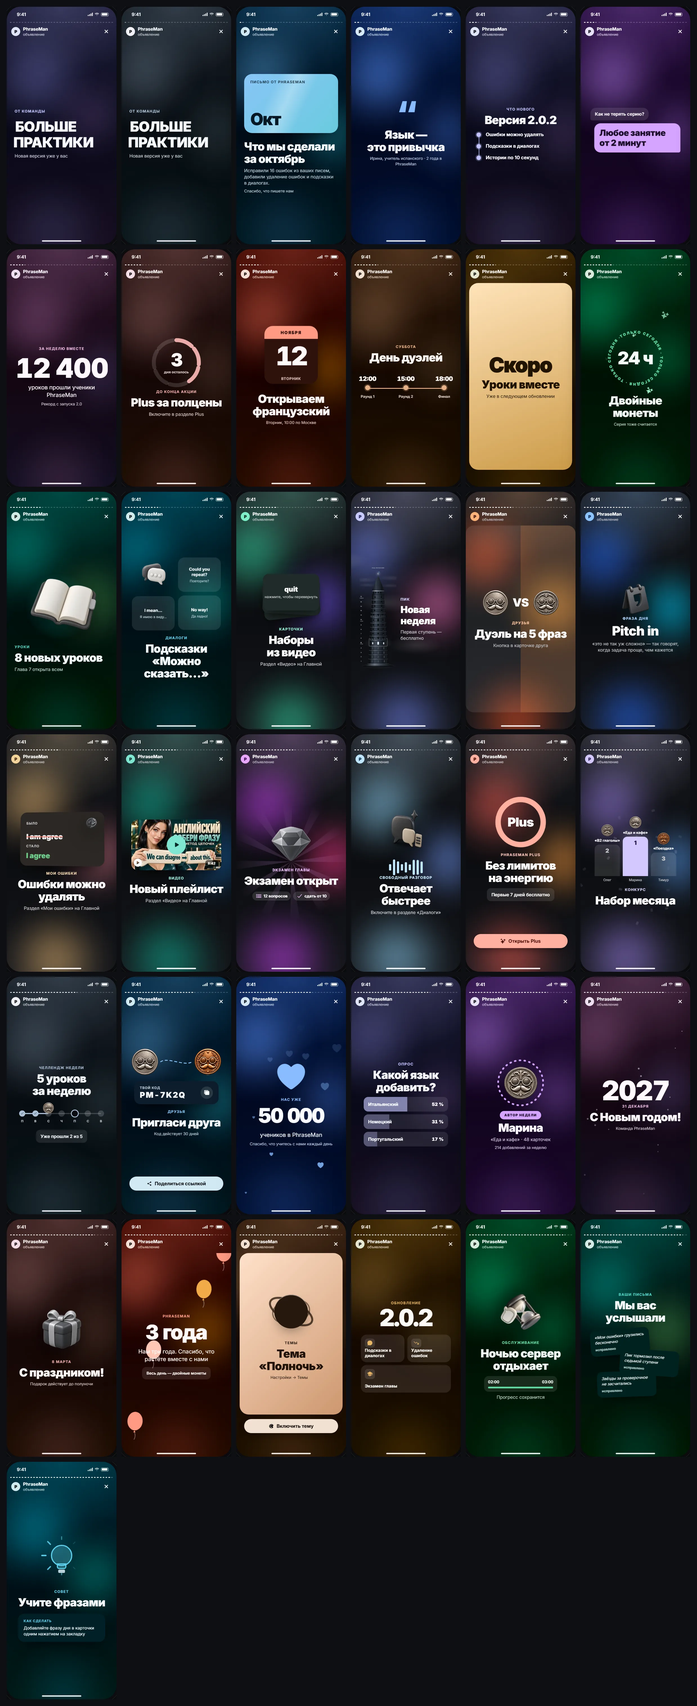
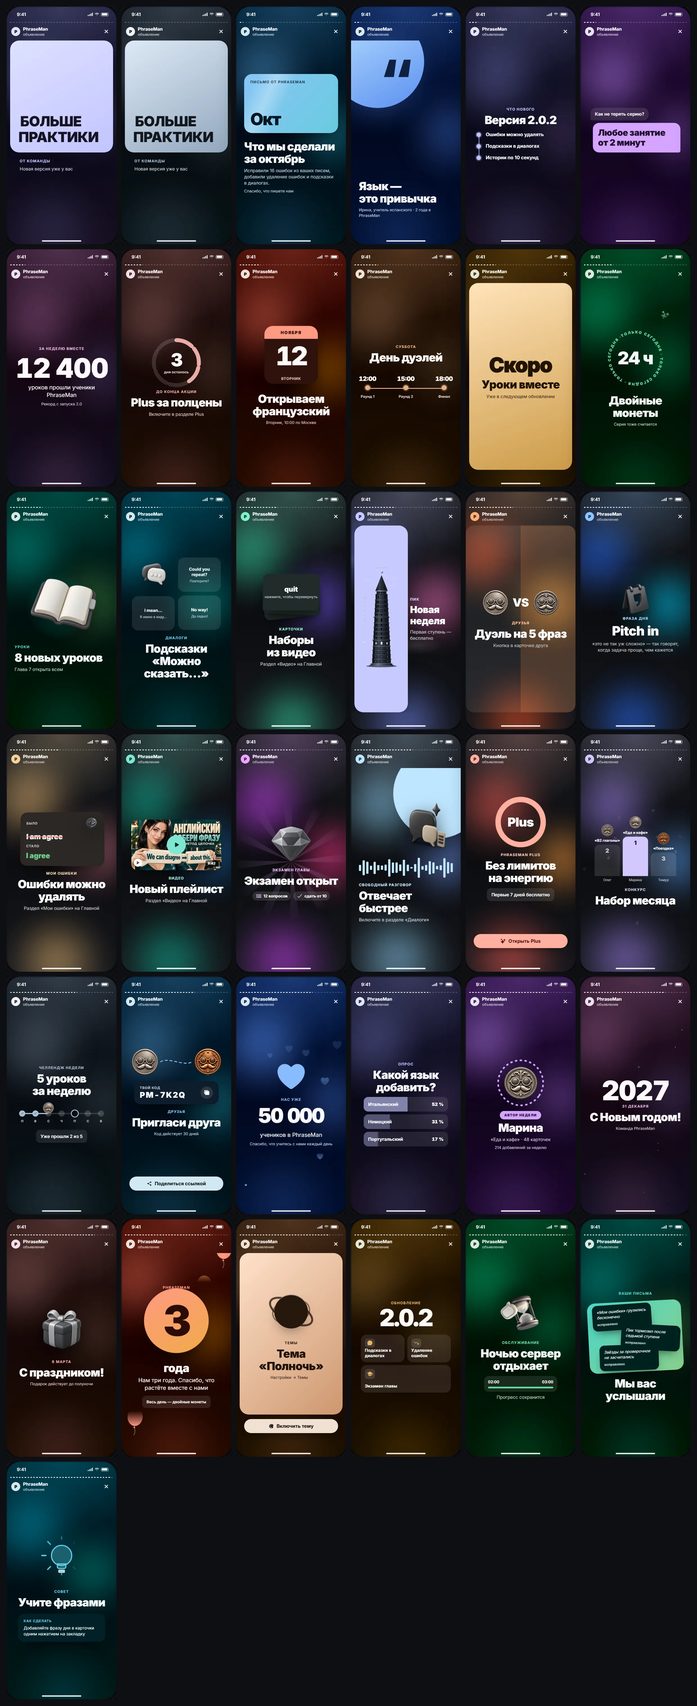
docs(design): story announcements v2.1 — particles keep off the text band, colour planes for the flat frames
Coordinator review of v2 on the sheet: a balloon crossed the paragraph on «3 года», and several frames still
read as "centred title on a blurred background" at rest (Манифест, Цитата, Пик, ИИ, Мы вас услышали).

- Particle layers (.fx.tz: balloons, hearts, snow, sparks, confetti) are masked out of the text band; the player
  measures the band after render (all slide children except particles, backgrounds and art) and feeds it to the
  mask via --tz-top/--tz-bottom, so particles fade 64px before text and never sit on it.
- Манифест: poster — theme-gradient plane on 60 % of the frame wiped in from the left, caps lines inside it,
  badge and paragraph below.
- Цитата: theme disc with a giant quote mark enters from the top-left corner and floats; quote anchored
  bottom-left.
- Пик: theme plane on the left with the tower rising on it, text column on the right.
- ИИ: theme disc in the top-right corner with the mic art on it, 26-bar wave across the frame, text left.
- Мы вас услышали: tilted theme board with the three notes on it as the hero, title below.
- День рождения: the number from the title sits on a theme disc (150px), the rest of the title below;
  balloons in the side lanes.

Headless: 36 × 2 titles × 23 themes × dark/light = 3312 frames, 0 geometry violations, 0 JS errors, 0 404;
sheets regenerated.

diff --git a/docs/design/v2-app/stories-announcements-v1.html b/docs/design/v2-app/stories-announcements-v1.html
@@ -13,6 +13,8 @@
    конфетти и частицы, 3D-наклон, параллакс, маски и раскрытие текста, кинетические буквы, круговая надпись, занавес, кольца) и своё
    движение входа и «жизни»; анимируются только transform/opacity (маски — clip-path), «Уменьшить движение» — всё стоит в конечном состоянии.
    Безопасные зоны: кадр живёт между шапкой (120) и низом (60; с кнопкой — 150) и обрезает всё, что вылетает за его край; частицы заперты внутри.
+   v2.1 (координатор после показа листа): частицы не заходят на полосу текста (.fx.tz + маска, полосу ставит плеер), у Манифеста, Цитаты, Пика,
+   ИИ, «Мы вас услышали» и Дня рождения — цветные плоскости темы и другой ритм вместо «текста по центру на размытом фоне».
    Проверка: window.ST.settle(true) ставит все анимации в конечное состояние, window.ST.geo(k) ищет пересечения, выход за кадр и обрезанный
    текст — прогон 36 × 2 заголовка × 23 темы в headless, итог должен быть 0 (scratchpad/ann_check.cjs).
    Контракт сейчас (modules/story_events/story_announcements_contract.ts): метка ≤ 35, заголовок ≤ 110, до 4 блоков ≤ 260 (14/16/20,
@@ -431,6 +433,38 @@ html.settle .st-page .ph .story *, html.settle .st-page .ph .story *::before, ht
 .ph.lt .sparks .io { color: var(--acc-g); }
 @keyframes stSpark { 0%, 100% { opacity: 0; transform: scale(.4) rotate(0); } 50% { opacity: 1; transform: scale(1) rotate(20deg); } }
 
+/* ── v2.1: частицы вне полосы текста (--tz-top/--tz-bottom ставит плеер) ── */
+.story .sl > .fx.tz { -webkit-mask-image: linear-gradient(to bottom, #000 0, #000 calc(var(--tz-top, 50%) - 64px), transparent calc(var(--tz-top, 50%) - 10px), transparent calc(var(--tz-bottom, 50%) + 10px), #000 calc(var(--tz-bottom, 50%) + 64px), #000 100%); mask-image: linear-gradient(to bottom, #000 0, #000 calc(var(--tz-top, 50%) - 64px), transparent calc(var(--tz-top, 50%) - 10px), transparent calc(var(--tz-bottom, 50%) + 10px), #000 calc(var(--tz-bottom, 50%) + 64px), #000 100%); }
+/* ── v2.1: Манифест — постер: плоскость темы на 60 % кадра, капс внутри, блик ── */
+.poster { width: 100%; height: 100%; display: flex; flex-direction: column; }
+.poster .plane { position: absolute; left: -16px; right: -16px; top: 0; height: 60%; border-radius: 32px; overflow: hidden; background: linear-gradient(150deg, var(--grad-a), var(--grad-b)); clip-path: inset(0 100% 0 0 round 32px); animation: stPlaneIn 900ms cubic-bezier(.23, 1, .32, 1) forwards 100ms; box-shadow: 0 24px 50px -24px color-mix(in srgb, var(--sh-tint) 70%, transparent); }
+@keyframes stPlaneIn { to { clip-path: inset(0 0 0 0 round 32px); } }
+.poster .plane .sheen { position: absolute; inset: -40% -60%; background: linear-gradient(115deg, transparent 42%, rgba(255, 255, 255, .28) 50%, transparent 58%); animation: stSheenLoop 6s ease-in-out infinite 1.6s; }
+.poster .pbody { position: relative; height: 60%; display: flex; align-items: flex-end; padding: 0 10px 26px 18px; }
+.poster .pfoot { padding: 22px 6px 0 18px; display: flex; flex-direction: column; align-items: flex-start; }
+.sl .onink .mani .ln span { color: var(--acc-ink); }
+/* ── v2.1: Цитата — диск темы входит из угла, цитата внизу слева ── */
+.story .sl > .bg.qdisc { inset: -90px auto auto -70px; width: 330px; height: 330px; border-radius: 50%; background: linear-gradient(150deg, var(--grad-a), var(--grad-b)); transform-origin: 30% 30%; opacity: 0; animation: stDiscIn 900ms cubic-bezier(.34, 1.56, .64, 1) both 100ms; display: flex; align-items: flex-end; justify-content: flex-end; padding: 0 48px 22px 0; }
+@keyframes stDiscIn { from { opacity: 0; transform: scale(.4); } to { opacity: 1; transform: none; } }
+.qdisc .qm { display: block; font-size: 190px; line-height: 150px; font-weight: 800; color: var(--acc-ink); letter-spacing: -8px; opacity: .92; }
+.qwrap { width: 100%; height: 100%; display: flex; flex-direction: column; justify-content: flex-end; align-items: flex-start; padding-bottom: 32px; }
+/* ── v2.1: Пик — плоскость темы слева под башней ── */
+.story .sl > .bg.hplane { inset: 0 auto 0 12px; width: 190px; border-radius: 32px; background: linear-gradient(180deg, var(--grad-a), var(--grad-b)); transform: translateX(-115%); animation: stSlideIn 800ms cubic-bezier(.23, 1, .32, 1) forwards 100ms; box-shadow: 0 24px 50px -24px color-mix(in srgb, var(--sh-tint) 70%, transparent); }
+.split .colL { width: 160px; }
+.split .colR { padding-left: 10px; }
+/* ── v2.1: ИИ — диск темы в углу, волна на всю ширину ── */
+.bg .disc2 { position: absolute; right: -80px; top: -70px; width: 320px; height: 320px; border-radius: 50%; background: linear-gradient(140deg, var(--grad-a), var(--grad-b)); transform-origin: 70% 30%; opacity: 0; animation: stDiscIn 900ms cubic-bezier(.34, 1.56, .64, 1) both 100ms; }
+.aiart { align-self: flex-end; margin: 0 -6px 4px 0; }
+.wave { display: flex; align-items: center; gap: 5px; width: 100%; height: 72px; margin: 0 0 16px; }
+.wave i { flex: 1; height: calc(100% * var(--h, .6)); border-radius: 3px; background: var(--acc-g); transform-origin: center; animation: stEq var(--t) ease-in-out infinite alternate; animation-delay: var(--d); }
+/* ── v2.1: Мы вас услышали — цветная доска с записками ── */
+.notes.board { width: 334px; height: 262px; margin: 14px 0 6px; }
+.notes .bplane { position: absolute; inset: 6px 0; border-radius: 28px; background: linear-gradient(135deg, var(--grad-a), var(--grad-b)); transform: rotate(-3deg) scale(.7); opacity: 0; animation: stBoardIn 800ms cubic-bezier(.34, 1.56, .64, 1) forwards 200ms; box-shadow: 0 24px 50px -24px color-mix(in srgb, var(--sh-tint) 70%, transparent); }
+@keyframes stBoardIn { to { transform: rotate(-3deg); opacity: 1; } }
+/* ── v2.1: День рождения — цифра на диске темы ── */
+.bdisc { width: 230px; height: 230px; border-radius: 50%; background: linear-gradient(150deg, var(--grad-a), var(--grad-b)); display: flex; align-items: center; justify-content: center; box-shadow: 0 30px 60px -24px color-mix(in srgb, var(--sh-tint) 70%, transparent); }
+.bdisc .bnum { display: block; font-size: 150px; line-height: 150px; font-weight: 800; letter-spacing: -6px; color: var(--acc-ink); font-variant-numeric: tabular-nums; opacity: 0; animation: stBounceIn 800ms cubic-bezier(.34, 1.56, .64, 1) both 500ms; }
+
 /* ── опись ── */
 .st-map-wrap { overflow-x: auto; margin-top: 12px; border-radius: 16px; background: #17181B; }
 .st-map { width: 100%; min-width: 1100px; border-collapse: collapse; font-size: 13px; line-height: 18px; }
@@ -446,6 +480,7 @@ html.settle .st-page .ph .story *, html.settle .st-page .ph .story *::before, ht
   .wipe, .twr, .story .sl > .bg.wipebg { clip-path: none !important; }
   .tl .line, .tl .line i, .hl .ln, .hl .ln i, .path .ln i, .pb2 .op i, .win .tr i, .tilt .wrong i { transform: none !important; }
   .ring7 .seg.on { stroke-dasharray: 60 443 !important; } .lnk svg path { stroke-dashoffset: 0 !important; }
+  .poster .plane { clip-path: inset(0 0 0 0 round 32px) !important; } .story .sl > .bg.qdisc, .bg .disc2, .story .sl > .bg.hplane, .bdisc .bnum { opacity: 1 !important; transform: none !important; } .notes .bplane { opacity: 1 !important; transform: rotate(-3deg) !important; }
   .chat .dots, .bigring, .snow, .conf, .sparks, .hp, .bl { display: none !important; }
   .odo .dg .strip { transform: translateY(var(--dy)) !important; } .soonw b:not(.fill) { opacity: 0 !important; } .fly .flipw { transform: rotateY(180deg) !important; } .bulb .ray { opacity: 1 !important; transform: none !important; }
   .notes .nt { transform: rotate(var(--r)) !important; } .fly .fc { transform: translate(0, var(--ty)) rotateZ(var(--rz)) !important; } .path .run { transform: translateX(var(--dx)) !important; }
@@ -515,9 +550,9 @@ const block = (b, d) => b.style === 'accent' ? `<div class="blk acc b${b.size} a
 const blocks = (list, d0 = 700, step = 160) => (list || []).map((b, i) => block(b, d0 + i * step)).join('');
 const artSrc = (ph, name) => `assets/v2art/${ph.classList.contains('lt') ? 'light' : 'dark'}/${name}.webp`;
 const art = (ph, name, size = 150, d = 100, life = 'float') => `<div class="pop" style="--d:${d}ms"><img class="v2art ${life}" src="${artSrc(ph, name)}" width="${size}" height="${size}" style="width:${size}px;height:${size}px" alt=""></div>`;
-const confetti = (n = 18, d0 = 700) => `<div class="fx conf" data-fx>${Array.from({ length: n }, (_, i) => { const a = (Math.PI * 2 / n) * i + (i % 3) * .3; const r = 120 + (i % 5) * 28; const c = ['var(--acc-b)', 'var(--acc-g)', 'var(--tx)', 'var(--sec)'][i % 4]; return `<i style="--cc:${c};--dx:${Math.round(Math.cos(a) * r)}px;--dy:${Math.round(Math.sin(a) * r + 90)}px;--r:${(i * 97) % 360}deg;--d:${d0 + (i % 6) * 60}ms"></i>`; }).join('')}</div>`;
-const sparks = (n = 7) => `<div class="fx sparks" data-fx>${Array.from({ length: n }, (_, i) => `<span class="io" style="--x:${8 + (i * 13) % 84}%;--y:${10 + (i * 29) % 70}%;--s:${14 + (i % 3) * 8}px;--d:${i * 330}ms">${I.sparkles}</span>`).join('')}</div>`;
-const tower = (ph, tier, myFloor, width) => { if (!T) return ''; const lite = ph.classList.contains('lt'); const w = Math.min(width || 200, Math.floor(380 * T.TW / T.GEOM.height)); const h = Math.round(T.GEOM.height * w / T.TW); return `<div class="twr" style="width:${w}px;height:${h}px">${T.svg({ tier, myFloor, selected: myFloor, width: w, theme: lite ? 'light' : 'dark', variant: 'tower' })}</div>`; };
+const confetti = (n = 18, d0 = 700) => `<div class="fx conf tz" data-fx>${Array.from({ length: n }, (_, i) => { const a = (Math.PI * 2 / n) * i + (i % 3) * .3; const r = 120 + (i % 5) * 28; const c = ['var(--acc-b)', 'var(--acc-g)', 'var(--tx)', 'var(--sec)'][i % 4]; return `<i style="--cc:${c};--dx:${Math.round(Math.cos(a) * r)}px;--dy:${Math.round(Math.sin(a) * r + 90)}px;--r:${(i * 97) % 360}deg;--d:${d0 + (i % 6) * 60}ms"></i>`; }).join('')}</div>`;
+const sparks = (n = 7) => `<div class="fx sparks tz" data-fx>${Array.from({ length: n }, (_, i) => `<span class="io" style="--x:${8 + (i * 13) % 84}%;--y:${10 + (i * 29) % 70}%;--s:${14 + (i % 3) * 8}px;--d:${i * 330}ms">${I.sparkles}</span>`).join('')}</div>`;
+const tower = (ph, tier, myFloor, width, forceTheme) => { if (!T) return ''; const lite = ph.classList.contains('lt'); const w = Math.min(width || 200, Math.floor(380 * T.TW / T.GEOM.height)); const h = Math.round(T.GEOM.height * w / T.TW); return `<div class="twr" style="width:${w}px;height:${h}px">${T.svg({ tier, myFloor, selected: myFloor, width: w, theme: forceTheme || (lite ? 'light' : 'dark'), variant: 'tower' })}</div>`; };
 // зачем: строки манифеста собираются по ширине (оценка 0,72 em на букву капсом, 0,3 em на пробел; лимит 316 px, чтобы дрейф ±8 px не упирался в маску), чтобы ни одна строка не вылезла за кадр при любом заголовке
 const kinLines = (text, maxW = 316) => { const sizes = [56, 50, 44, 40, 36, 32, 28, 24]; const ws = text.split(' '); const wl = (s, fs) => fs * (s.replace(/ /g, '').length * .72 + (s.split(' ').length - 1) * .3); for (const fs of sizes) { const lines = []; let cur = ''; let ok = true; for (const w of ws) { if (wl(w, fs) > maxW) { ok = false; break; } const t = cur ? cur + ' ' + w : w; if (wl(t, fs) <= maxW) cur = t; else { lines.push(cur); cur = w; } } if (!ok) continue; if (cur) lines.push(cur); if (lines.length <= 8) return { fs, lines }; } return { fs: 24, lines: ws }; };
 const odometer = (n, d0 = 200) => { const s = fmt(n); const m = s.replace(/ /g, '').length > 5; return `<div class="odo ${m ? 'm' : ''}">${[...s].map((ch, i) => ch === ' ' ? '<i class="sp"></i>' : `<div class="dg"><div class="strip" style="--dy:${-(+ch) * (m ? 72 : 96)}px;--d:${d0 + i * 120}ms">${Array.from({ length: 10 }, (_, k) => `<b>${k}</b>`).join('')}</div></div>`).join('')}</div>`; };
@@ -535,15 +570,15 @@ const applyTheme = (ph, id, ap) => { ph.setAttribute('style', tokCss(id, ap)); p
 /* ── шаблоны v2 ── s = пример текста владельца (badge, short, long, blocks); render(ph, s, c) → кадр; c.title — заголовок по переключателю */
 const B = (text, size = 16, style = 'normal') => ({ text, size, style });
 const TPL = [
-  { id: 'manifest', name: 'Манифест', group: 'Текст', comp: 'крупная типографика на весь кадр', fields: 'метка · заголовок · 1 блок', ext: '', motion: 'строки капсом выезжают из-под маски по одной, потом дрейфуют в разные стороны',
+  { id: 'manifest', name: 'Манифест', group: 'Текст', comp: 'постер: цветная плоскость темы на 60 % кадра, капс внутри неё', fields: 'метка · заголовок · 1 блок', ext: '', motion: 'плоскость раскрывается слева, строки капсом выезжают из-под масок и дрейфуют, по плоскости ходит блик',
     s: { badge: 'От команды', short: 'Больше практики', long: 'Больше живой практики и меньше барьеров: говорите с первого дня, ошибки не страшны', blocks: [B('Новая версия уже у вас', 16)] }, left: true,
-    render: (ph, s, c) => { const { fs, lines } = kinLines(c.title, 316); return `${badge(s.badge, 100)}<div class="mani" style="margin-top:14px">${lines.map((l, i) => `<div class="ln" style="font-size:${fs}px"><i style="--dd:${-i * 1300}ms"><span style="--d:${260 + i * 120}ms">${esc(l)}</span></i></div>`).join('')}</div>${blocks(s.blocks, 300 + lines.length * 120 + 500)}`; } },
+    render: (ph, s, c) => { const { fs, lines } = kinLines(c.title, 300); return `<div class="poster"><div class="plane" data-bg><i class="sheen" data-fx></i></div><div class="pbody onink"><div class="mani">${lines.map((l, i) => `<div class="ln" style="font-size:${fs}px"><i style="--dd:${-i * 1300}ms"><span style="--d:${500 + i * 120}ms">${esc(l)}</span></i></div>`).join('')}</div></div><div class="pfoot">${badge(s.badge, 900 + lines.length * 120)}${blocks(s.blocks, 1000 + lines.length * 120)}</div></div>`; } },
   { id: 'editorial', name: 'Редакция', group: 'Текст', comp: 'сплит: цветная панель сверху, текст слева', fields: 'метка · заголовок · до 2 блоков', ext: '', motion: 'панель опускается занавесом, по ней ходит блик; текст по лесенке',
     s: { badge: 'Письмо от PhraseMan', short: 'Что мы сделали за октябрь', long: 'Что мы сделали за октябрь и почему уроки теперь открываются быстрее даже без сети', blocks: [B('Исправили 16 ошибок из ваших писем, добавили удаление ошибок и подсказки в диалогах.', 16), B('Спасибо, что пишете нам', 14)] }, left: true,
     render: (ph, s, c) => `<div class="edit"><div class="epanel"><div class="sheen" data-fx></div><div class="ov">${esc(s.badge)}</div><div class="mark">Окт</div></div><div style="height:18px"></div>${title(c.title, 800)}${blocks(s.blocks, 1200)}</div>` },
-  { id: 'quote', name: 'Цитата', group: 'Текст', comp: 'типографика: кавычка и маска', fields: 'заголовок = цитата · 1 блок = автор', ext: '', motion: 'кавычка всплывает пружиной, цитата открывается слева направо, автор проявляется',
-    s: { badge: '', short: 'Язык — это привычка', long: 'Язык учится не за один вечер, а по десять минут каждый день: именно так появляются ваши 30 дней подряд', blocks: [B('Ирина, учитель испанского · 2 года в PhraseMan', 14)] },
-    render: (ph, s, c) => `<div class="qmark pop" style="--d:80ms">“</div><div class="wipe" style="--d:600ms"><div class="h1 ${hcls(c.title)}">${esc(c.title)}</div></div>${blocks(s.blocks, 1500)}` },
+  { id: 'quote', name: 'Цитата', group: 'Текст', comp: 'постер: цветной диск с кавычкой входит из угла, цитата внизу слева', fields: 'заголовок = цитата · 1 блок = автор', ext: '', motion: 'диск вылетает из угла пружиной и парит, цитата открывается маской слева направо, автор проявляется',
+    s: { badge: '', short: 'Язык — это привычка', long: 'Язык учится не за один вечер, а по десять минут каждый день: именно так появляются ваши 30 дней подряд', blocks: [B('Ирина, учитель испанского · 2 года в PhraseMan', 14)] }, left: true,
+    render: (ph, s, c) => `<div class="bg qdisc" data-bg><span class="float"><span class="qm">“</span></span></div><div class="qwrap"><div class="wipe" style="--d:700ms"><div class="h1 ${hcls(c.title)}">${esc(c.title)}</div></div>${blocks(s.blocks, 1600)}</div>` },
   { id: 'list3', name: 'Три пункта', group: 'Текст', comp: 'вертикальный таймлайн', fields: 'метка · заголовок · до 3 блоков = пункты', ext: '', motion: 'линия растёт сверху вниз, пункты въезжают справа с точками',
     s: { badge: 'Что нового', short: 'Версия 2.0.2', long: 'Версия 2.0.2 уже в App Store и Google Play: вот три вещи, которые вы заметите сразу', blocks: [B('Ошибки можно удалять', 16), B('Подсказки в диалогах', 16), B('Истории по 10 секунд', 16)] },
     render: (ph, s, c) => `${badge(s.badge, 100)}${title(c.title, 220)}<div class="tl"><div class="line" data-bg><i></i></div>${(s.blocks || []).map((b, i) => `<div class="it" style="--d:${700 + i * 260}ms"><span class="dot"></span>${esc(b.text)}</div>`).join('')}</div>` },
@@ -577,9 +612,9 @@ const TPL = [
   { id: 'cards', name: 'Карточки', group: 'Разделы', comp: 'стопка карточек в 3D', fields: 'метка · заголовок · 1 блок', ext: 'выбор арта', motion: 'три карточки влетают из угла в 3D, верхняя переворачивается переводом',
     s: { badge: 'Карточки', short: 'Наборы из видео', long: 'Наборы из видео: фразы из ролика собираются в набор одним нажатием', blocks: [B('Раздел «Видео» на Главной', 16)] },
     render: (ph, s, c) => `<div class="art"><div class="fly" data-stack><div class="fc" style="--ty:26px;--rz:-6deg;--d:200ms"></div><div class="fc" style="--ty:13px;--rz:3deg;--d:380ms"></div><div class="fc" style="--ty:0px;--rz:0deg;--d:560ms"><div class="flipw"><div class="face"><span class="en">quit</span><span class="ru">нажмите, чтобы перевернуть</span></div><div class="face back"><span class="en">уйти с работы</span><span class="ru">quit</span></div></div></div></div></div>${badge(s.badge, 900)}${title(c.title, 960)}${blocks(s.blocks, 1300)}` },
-  { id: 'peak', name: 'Пик', group: 'Разделы', comp: 'сплит: башня слева, текст справа', fields: 'метка · заголовок · 1 блок · башня', ext: 'выбор арта', motion: 'башня поднимается снизу, облака плывут за ней, свой этаж горит',
+  { id: 'peak', name: 'Пик', group: 'Разделы', comp: 'сплит: цветная плоскость с башней слева, текст справа', fields: 'метка · заголовок · 1 блок · башня', ext: 'выбор арта', motion: 'плоскость въезжает слева, башня поднимается по ней снизу, облака плывут, свой этаж горит',
     s: { badge: 'Пик', short: 'Новая неделя', long: 'Новая неделя Пика: 15 ступеней, комната из 30 человек и лига выше для первых пяти', blocks: [B('Первая ступень — бесплатно', 16)] },
-    render: (ph, s, c) => `<div class="fx clouds" data-fx>${[0, 1, 2].map((i) => `<i style="--y:${90 + i * 150}px;--t:${26 + i * 7}s;--d:${-i * 9}s"></i>`).join('')}</div><div class="split"><div class="colL">${tower(ph, 1, 5, 136)}</div><div class="colR">${badge(s.badge, 1100)}${title(c.title, 1160, '', true)}${blocks(s.blocks, 1500)}</div></div>` },
+    render: (ph, s, c) => `<div class="fx clouds" data-fx>${[0, 1, 2].map((i) => `<i style="--y:${90 + i * 150}px;--t:${26 + i * 7}s;--d:${-i * 9}s"></i>`).join('')}</div><div class="bg hplane" data-bg></div><div class="split"><div class="colL">${tower(ph, 1, 5, 150, 'dark')}</div><div class="colR">${badge(s.badge, 1100)}${title(c.title, 1160, '', true)}${blocks(s.blocks, 1500)}</div></div>` },
   { id: 'duels', name: 'Дуэли', group: 'Разделы', comp: 'сплит на две половины', fields: 'метка · заголовок · 1 блок · две монеты', ext: 'выбор арта', motion: 'половины экрана съезжаются, монеты сталкиваются с отскоком, VS падает с размаха',
     s: { badge: 'Друзья', short: 'Дуэль на 5 фраз', long: 'Дуэль на 5 фраз: вызовите друга, у кого тот же язык, и узнайте, кто быстрее', blocks: [B('Кнопка в карточке друга', 16)] },
     render: (ph, s, c) => `<div class="bg vsbg" data-bg><i></i><i></i></div><div class="art"><div class="vs2"><span class="cL">${coin(5, 92)}</span><span class="vsw">VS</span><span class="cR">${coin(8, 92)}</span></div></div>${badge(s.badge, 1500)}${title(c.title, 1560)}${blocks(s.blocks, 1900)}` },
@@ -596,9 +631,9 @@ const TPL = [
   { id: 'exam', name: 'Экзамен', group: 'Разделы', comp: 'арт в лучах', fields: 'метка · заголовок · 1 блок · арт «Экзамен»', ext: 'выбор арта', motion: 'лучи вращаются за кристаллом, кристалл парит, чипы падают сверху',
     s: { badge: 'Экзамен главы', short: 'Экзамен открыт', long: 'Экзамен главы открыт всем: 12 вопросов, сдать от 10, пересдача через час', blocks: [B('Кнопка на карте главы', 16)] },
     render: (ph, s, c) => `<div class="fx rays" data-fx><i></i></div>${art(ph, 'home_scene_exam_ready', 160, 100)}${badge(s.badge, 400)}${title(c.title, 480)}<div class="chips"><span class="chip" style="--d:1000ms">${io('list')}12 вопросов</span><span class="chip" style="--d:1150ms">${io('check')}сдать от 10</span></div>` },
-  { id: 'ai', name: 'Разговор с ИИ', group: 'Разделы', comp: 'арт и эквалайзер', fields: 'метка · заголовок · 1 блок · арт «ИИ»', ext: 'выбор арта', motion: 'столбики эквалайзера дышат вразнобой, микрофон парит',
-    s: { badge: 'Свободный разговор', short: 'Отвечает быстрее', long: 'Свободный разговор отвечает в два раза быстрее и не зависает без сети', blocks: [B('Включите в разделе «Диалоги»', 16)] },
-    render: (ph, s, c) => `${art(ph, 'intro_ai_dialog', 170, 100)}<div class="eq">${Array.from({ length: 9 }, (_, i) => `<i style="--t:${(.6 + (i % 4) * .17).toFixed(2)}s;--d:${-(i * 130)}ms"></i>`).join('')}</div>${badge(s.badge, 400)}${title(c.title, 480)}${blocks(s.blocks, 900)}` },
+  { id: 'ai', name: 'Разговор с ИИ', group: 'Разделы', comp: 'диск темы в углу с артом, волна на всю ширину, текст слева', fields: 'метка · заголовок · 1 блок · арт «ИИ»', ext: 'выбор арта', motion: 'диск вылетает из угла, микрофон парит на нём, 26 столбиков волны дышат вразнобой',
+    s: { badge: 'Свободный разговор', short: 'Отвечает быстрее', long: 'Свободный разговор отвечает в два раза быстрее и не зависает без сети', blocks: [B('Включите в разделе «Диалоги»', 16)] }, left: true,
+    render: (ph, s, c) => `<div class="bg" data-bg><i class="disc2"></i></div><div class="aiart">${art(ph, 'intro_ai_dialog', 200, 350)}</div><div class="wave" data-bg>${Array.from({ length: 26 }, (_, i) => `<i style="--t:${(.5 + ((i * 7) % 5) * .14).toFixed(2)}s;--d:${-(i * 90)}ms;--h:${(.3 + Math.abs(Math.sin(i * .9)) * .7).toFixed(2)}"></i>`).join('')}</div>${badge(s.badge, 700)}${title(c.title, 760)}${blocks(s.blocks, 1200)}` },
   { id: 'plus', name: 'Plus', group: 'Акции', comp: 'кольцо Plus, вылетающее из центра', fields: 'метка · заголовок · 1 блок', ext: 'кнопка', motion: 'кольцо вылетает из центра, второе кольцо расходится волной, кольцо вращается',
     s: { badge: 'Phraseman Plus', short: 'Без лимитов на энергию', long: 'Без лимитов на энергию, все диалоги и свободный разговор: месяц Plus дешевле двух кофе', blocks: [B('Первые 7 дней бесплатно', 16, 'accent')] }, cta: { label: 'Открыть Plus', icon: 'sparkles' },
     render: (ph, s, c) => `<div class="fx" data-fx><div class="bigring"></div></div><div class="art"><div class="pz2"><div class="ringc" data-bg></div><span class="t3">Plus</span></div></div>${badge(s.badge, 500)}${title(c.title, 560)}${blocks(s.blocks, 1000)}` },
@@ -613,7 +648,7 @@ const TPL = [
     render: (ph, s, c) => `<div class="lnk"><span class="cL">${coin(5, 96)}</span><svg viewBox="0 0 120 24" data-bg><path d="M4 12 C 30 -6, 90 30, 116 12"/></svg><span class="cR">${coin(2, 96)}</span></div><div class="codecard"><div><div class="k">Твой код</div><div class="code">PM-7K2Q</div></div><span class="cp">${io('copy', 20)}</span></div>${badge(s.badge, 1300)}${title(c.title, 1360)}${blocks(s.blocks, 1700)}` },
   { id: 'thanks', name: 'Спасибо', group: 'Сообщество', comp: 'частицы: сердца', fields: 'метка · заголовок = число · 1 блок', ext: '', motion: 'сердца поднимаются и тают, большое сердце бьётся, число считает',
     s: { badge: 'Нас уже', short: '50 000', long: '50 000', blocks: [B('учеников в PhraseMan', 20), B('Спасибо, что учитесь с нами каждый день', 14)] },
-    render: (ph, s, c) => { const n = Number(String(c.title).replace(/\D/g, '')) || 0; return `<div class="fx" data-fx>${Array.from({ length: 12 }, (_, i) => `<span class="io hp" style="--x:${5 + (i * 23) % 90}%;--s:${14 + (i % 4) * 8}px;--t:${4 + (i % 3)}s;--d:${-(i * 700)}ms;--sx:${((i % 3) - 1) * 40}px">${I.heart}</span>`).join('')}</div><div class="art"><span class="pop" style="--d:100ms"><span class="io heartbig">${I.heart}</span></span></div>${badge(s.badge, 300)}<div class="big m">${cnt(n, 400, 1300)}</div>${blocks(s.blocks, 1000)}`; } },
+    render: (ph, s, c) => { const n = Number(String(c.title).replace(/\D/g, '')) || 0; return `<div class="fx tz" data-fx>${Array.from({ length: 12 }, (_, i) => `<span class="io hp" style="--x:${5 + (i * 23) % 90}%;--s:${14 + (i % 4) * 8}px;--t:${4 + (i % 3)}s;--d:${-(i * 700)}ms;--sx:${((i % 3) - 1) * 40}px">${I.heart}</span>`).join('')}</div><div class="art"><span class="pop" style="--d:100ms"><span class="io heartbig">${I.heart}</span></span></div>${badge(s.badge, 300)}<div class="big m">${cnt(n, 400, 1300)}</div>${blocks(s.blocks, 1000)}`; } },
   { id: 'poll', name: 'Опрос', group: 'Сообщество', comp: 'полосы голосования', fields: 'метка · заголовок = вопрос · блоки = варианты', ext: 'ответ одним тапом (новое поле)', motion: 'варианты всплывают, затем заполняются процентами, цифры проявляются',
     s: { badge: 'Опрос', short: 'Какой язык добавить?', long: 'Какой язык добавить следующим? Мы начнём с того, за который проголосует больше всего людей', blocks: [B('Итальянский', 16), B('Немецкий', 16), B('Португальский', 16)] },
     render: (ph, s, c) => { const pct = [52, 31, 17]; return `${badge(s.badge, 100)}${title(c.title, 220)}<div class="pb2">${(s.blocks || []).slice(0, 3).map((b, i) => `<div class="op ${i === 0 ? 'sel' : ''}" style="--d:${700 + i * 160}ms;--fd:${1700 + i * 120}ms"><i data-bg style="--p:${pct[i] / 100}"></i><span>${esc(b.text)}</span><b>${pct[i]} %</b></div>`).join('')}</div>`; } },
@@ -622,13 +657,13 @@ const TPL = [
     render: (ph, s, c) => `<div class="laurel"><svg viewBox="0 0 180 180" data-bg><circle cx="90" cy="90" r="80"/></svg><span class="pop" style="--d:200ms">${coin(9, 120)}</span></div><div class="ribbon">${esc(s.badge)}</div>${title(c.title, 700)}${blocks(s.blocks, 1100)}` },
   { id: 'newyear', name: 'Новый год', group: 'Праздник', comp: 'частицы: снег', fields: 'метка · заголовок · 1 блок', ext: '', motion: 'снег в цвете текста темы, цифры года подпрыгивают по одной',
     s: { badge: '31 декабря', short: 'С Новым годом!', long: 'С Новым годом! Пусть серия не прервётся, а новые слова приходят сами', blocks: [B('Команда PhraseMan', 14)] },
-    render: (ph, s, c) => `<div class="fx snow" data-fx>${Array.from({ length: 26 }, (_, i) => `<i style="--x:${(i * 37) % 100}%;--s:${3 + (i % 4)}px;--t:${7 + (i % 5)}s;--d:${-(i * 0.9).toFixed(1)}s;--sx:${((i % 3) - 1) * 40}px"></i>`).join('')}</div><div class="yr">${[...'2027'].map((d, i) => `<b style="--d:${150 + i * 130}ms">${d}</b>`).join('')}</div>${badge(s.badge, 800)}${title(c.title, 860)}${blocks(s.blocks, 1200)}` },
+    render: (ph, s, c) => `<div class="fx snow tz" data-fx>${Array.from({ length: 26 }, (_, i) => `<i style="--x:${(i * 37) % 100}%;--s:${3 + (i % 4)}px;--t:${7 + (i % 5)}s;--d:${-(i * 0.9).toFixed(1)}s;--sx:${((i % 3) - 1) * 40}px"></i>`).join('')}</div><div class="yr">${[...'2027'].map((d, i) => `<b style="--d:${150 + i * 130}ms">${d}</b>`).join('')}</div>${badge(s.badge, 800)}${title(c.title, 860)}${blocks(s.blocks, 1200)}` },
   { id: 'holiday', name: 'Праздник', group: 'Праздник', comp: 'арт с подскоком и конфетти', fields: 'метка · заголовок · 1 блок', ext: '', motion: 'подарок падает сверху с подскоком, при приземлении взрывается конфетти',
     s: { badge: '8 марта', short: 'С праздником!', long: 'С праздником! Сегодня все диалоги открыты без энергии, а фраза дня — про цветы', blocks: [B('Подарок действует до полуночи', 14)] },
     render: (ph, s, c) => `${confetti(22, 900)}<div class="art"><div class="gift"><img class="v2art float" src="${artSrc(ph, 'home_scene_all_done')}" width="170" height="170" style="width:170px;height:170px" alt=""></div></div>${badge(s.badge, 1000)}${title(c.title, 1060)}${blocks(s.blocks, 1400)}` },
-  { id: 'birthday', name: 'День рождения', group: 'Праздник', comp: 'частицы: шары', fields: 'метка · заголовок = число лет · 1 блок', ext: '', motion: 'шары в цветах темы поднимаются и качаются, цифра подпрыгивает',
+  { id: 'birthday', name: 'День рождения', group: 'Праздник', comp: 'цифра на цветном диске, шары по краям', fields: 'метка · заголовок = число лет · 1 блок', ext: '', motion: 'диск всплывает, цифра падает с отскоком, шары в цветах темы поднимаются по бокам и тают у текста',
     s: { badge: 'PhraseMan', short: '3 года', long: '3 года', blocks: [B('Нам три года. Спасибо, что растёте вместе с нами', 20), B('Весь день — двойные монеты', 14, 'accent')] },
-    render: (ph, s, c) => { const cols = ['var(--acc-g)', 'var(--acc-b)', 'var(--grad-b)', 'var(--acc-g)']; return `<div class="fx" data-fx>${cols.map((col, i) => `<span class="bl" style="--x:${[3, 20, 66, 84][i]}%;--t:${9 + i * 1.5}s;--d:${-(i * 2.6).toFixed(1)}s"><svg viewBox="0 0 70 105"><ellipse cx="35" cy="34" rx="27" ry="33" fill="${col}"/><path d="M35 67 l-4 7 h8 z" fill="${col}"/><path d="M35 74 q7 12 0 26" stroke="var(--tx)" stroke-opacity=".45" stroke-width="2" fill="none"/></svg></span>`).join('')}</div>${badge(s.badge, 100)}<div class="big m rise" style="--d:200ms">${esc(c.title)}</div>${blocks(s.blocks, 800)}`; } },
+    render: (ph, s, c) => { const cols = ['var(--acc-g)', 'var(--acc-b)', 'var(--grad-b)', 'var(--acc-g)']; const m = String(c.title).match(/^(\d+)\s*(.*)$/); const num = m ? m[1] : ''; const rest = m ? m[2] : String(c.title); return `<div class="fx tz" data-fx>${cols.map((col, i) => `<span class="bl" style="--x:${[3, 20, 66, 84][i]}%;--t:${9 + i * 1.5}s;--d:${-(i * 2.6).toFixed(1)}s"><svg viewBox="0 0 70 105"><ellipse cx="35" cy="34" rx="27" ry="33" fill="${col}"/><path d="M35 67 l-4 7 h8 z" fill="${col}"/><path d="M35 74 q7 12 0 26" stroke="var(--tx)" stroke-opacity=".45" stroke-width="2" fill="none"/></svg></span>`).join('')}</div>${badge(s.badge, 100)}${num ? `<div class="art"><div class="pop" style="--d:200ms"><div class="bdisc float"><b class="bnum">${esc(num)}</b></div></div></div>` : ''}${rest ? title(rest, 900) : ''}${blocks(s.blocks, 1200)}`; } },
   { id: 'theme', name: 'Новая тема', group: 'Праздник', comp: 'раскрытие цвета по кругу', fields: 'метка · заголовок · 1 блок · образец темы', ext: 'выбор темы для образца', motion: 'цвет темы раскрывается кругом на весь кадр, образец с орбитами вращается',
     s: { badge: 'Темы', short: 'Тема «Полночь»', long: 'Тема «Полночь» открыта всем на неделю: включите её в настройках и посмотрите, как выглядит ночной Пик', blocks: [B('Настройки → Темы', 14)] }, cta: { label: 'Включить тему', icon: 'palette' },
     render: (ph, s, c) => `<div class="bg wipebg" data-bg></div><div class="onink"><div class="art"><div class="swatch pop" style="--d:900ms"><svg viewBox="0 0 170 170" data-bg><ellipse cx="85" cy="85" rx="82" ry="36" stroke-width="7" stroke-opacity=".75" transform="rotate(-22 85 85)"/><ellipse cx="85" cy="85" rx="44" ry="66" stroke-width="4" stroke-opacity=".55" transform="rotate(31 85 85)"/></svg><div class="core"></div></div></div>${badge(s.badge, 1300)}${title(c.title, 1360)}${blocks(s.blocks, 1700)}</div>` },
@@ -638,9 +673,9 @@ const TPL = [
   { id: 'maintenance', name: 'Техработы', group: 'Служебные', comp: 'арт и окно времени', fields: 'метка · заголовок · 1 блок', ext: '', motion: 'песочные часы переворачиваются каждые 3 с, полоса окна заполняется',
     s: { badge: 'Обслуживание', short: 'Ночью сервер отдыхает', long: 'Ночью с 02:00 до 03:00 сервер отдыхает: уроки работают, а Пик и дуэли подождут час', blocks: [B('Прогресс сохранится', 16)] },
     render: (ph, s, c) => `<div class="art"><div class="pop" style="--d:100ms"><img class="v2art hourw" src="${artSrc(ph, 'dialogs_scene_limit')}" width="150" height="150" style="width:150px;height:150px" alt=""></div></div>${badge(s.badge, 400)}${title(c.title, 480)}<div class="win a" style="--d:900ms"><div class="tt"><span>02:00</span><span>03:00</span></div><div class="tr"><i></i></div></div>${blocks(s.blocks, 1200)}` },
-  { id: 'feedback', name: 'Мы прочитали', group: 'Служебные', comp: 'коллаж из записок', fields: 'метка · заголовок · блоки = цитаты', ext: '', motion: 'три записки слетаются с разных сторон и ложатся веером',
+  { id: 'feedback', name: 'Мы прочитали', group: 'Служебные', comp: 'цветная доска с записками на полэкрана, заголовок под ней', fields: 'метка · заголовок · блоки = цитаты', ext: '', motion: 'доска всплывает с поворотом, три записки слетаются с разных сторон и ложатся веером',
     s: { badge: 'Ваши письма', short: 'Мы вас услышали', long: 'Мы вас услышали: 16 жалоб за неделю разобраны, вот что исправили', blocks: [B('«Мои ошибки» грузились бесконечно', 14, 'quote'), B('Пик тормозил после седьмой ступени', 14, 'quote'), B('Звёзды за проверочное не засчитались', 14, 'quote')] },
-    render: (ph, s, c) => { const pos = [[0, 0, -5, -220, -60], [104, 74, 4, 240, -40], [24, 150, -2, 0, 260]]; return `${badge(s.badge, 100)}${title(c.title, 160)}<div class="notes" data-stack style="margin-top:18px">${(s.blocks || []).slice(0, 3).map((b, i) => { const [l, t, r, fx, fy] = pos[i]; return `<div class="nt" style="left:${l}px;top:${t}px;--r:${r}deg;--fx:${fx}px;--fy:${fy}px;--d:${800 + i * 240}ms">${esc(b.text)}<span class="by">исправлено</span></div>`; }).join('')}</div>`; } },
+    render: (ph, s, c) => { const pos = [[14, 16, -4, -220, -60], [116, 88, 3, 240, -40], [40, 160, -2, 0, 260]]; return `${badge(s.badge, 100)}<div class="notes board" data-stack><div class="bplane" data-bg></div>${(s.blocks || []).slice(0, 3).map((b, i) => { const [l, t, r, fx, fy] = pos[i]; return `<div class="nt" style="left:${l}px;top:${t}px;--r:${r}deg;--fx:${fx}px;--fy:${fy}px;--d:${800 + i * 240}ms">${esc(b.text)}<span class="by">исправлено</span></div>`; }).join('')}</div>${title(c.title, 1500)}`; } },
   { id: 'tip', name: 'Совет', group: 'Служебные', comp: 'лампочка и карточка', fields: 'метка · заголовок · 1 блок', ext: '', motion: 'лучи лампочки загораются по кругу, карточка совета выезжает снизу',
     s: { badge: 'Совет', short: 'Учите фразами', long: 'Учите фразами, а не словами: одна карточка в день с фразой дня даёт больше, чем десять слов', blocks: [B('Добавляйте фразу дня в карточки одним нажатием на закладку', 14)] },
     render: (ph, s, c) => `<div class="art"><div class="pop" style="--d:100ms"><svg class="bulb" viewBox="0 0 150 170"><g>${[0, 45, 90, 135, 180, 225, 270, 315].map((a, i) => { const r = Math.PI * a / 180; const x1 = 75 + Math.cos(r) * 56, y1 = 68 + Math.sin(r) * 56, x2 = 75 + Math.cos(r) * 70, y2 = 68 + Math.sin(r) * 70; return `<line class="ray" x1="${x1.toFixed(1)}" y1="${y1.toFixed(1)}" x2="${x2.toFixed(1)}" y2="${y2.toFixed(1)}" style="--d:${i * 300}ms"/>`; }).join('')}</g><circle class="glass" cx="75" cy="68" r="36"/><path class="glass" d="M60 98 h30 v10 a6 6 0 0 1 -6 6 h-18 a6 6 0 0 1 -6 -6 z"/><rect class="base" x="63" y="118" width="24" height="12" rx="4"/></svg></div></div>${badge(s.badge, 500)}${title(c.title, 560)}${(s.blocks || []).slice(0, 1).map((b) => `<div class="tipbox rise" style="--d:1000ms"><div class="k">Как сделать</div><div class="s">${esc(b.text)}</div></div>`).join('')}` },
@@ -674,7 +709,7 @@ class Player {
   go(k) { if (this.closing) return; if (k < 0) k = 0; if (k >= TPL.length) { if (this.mode === 'advance') return this.close(); k = TPL.length - 1; } this.show(k); }
   show(k) {
     this.i = k; const tpl = TPL[k]; this.onIndex(k, tpl);
-    this.sl.className = 'sl' + (tpl.cta ? ' hascta' : '') + (tpl.left ? ' left' : ''); this.sl.innerHTML = tpl.render(this.ph, tpl.s, ctxFor(tpl));
+    this.sl.className = 'sl' + (tpl.cta ? ' hascta' : '') + (tpl.left ? ' left' : ''); this.sl.innerHTML = tpl.render(this.ph, tpl.s, ctxFor(tpl)); this.fitFx();
     this.st.querySelector('.scta')?.remove();
     if (tpl.cta) { const b = document.createElement('div'); b.className = 'scta t'; b.innerHTML = `${io(tpl.cta.icon, 18)}<span>${tpl.cta.label}</span>`; b.addEventListener('click', (e) => e.stopPropagation()); this.st.appendChild(b); }
     this.bars.forEach((b, j) => { b.style.transition = 'none'; b.style.width = j < k ? '100%' : '0%'; });
@@ -685,6 +720,8 @@ class Player {
     this.paused = false; this.st.classList.remove('paused'); cancelAnimationFrame(this.raf); this.tick();
     this.run(SPEED); this.syncPause();
   }
+  // зачем: координатор — частицы не должны заходить на текст; слой .fx.tz получает полосу текста (все дети кадра кроме частиц, подложек и арта) и гасится в ней маской
+  fitFx() { const fx = [...this.sl.querySelectorAll(':scope > .fx.tz')]; if (!fx.length) return; let top = 1e9, bottom = 0; for (const c of this.sl.children) { if (c.matches('.fx,.bg,.art') || !c.offsetHeight) continue; top = Math.min(top, c.offsetTop); bottom = Math.max(bottom, c.offsetTop + c.offsetHeight); } if (bottom <= top) return; for (const f of fx) { f.style.setProperty('--tz-top', `${Math.round(top)}px`); f.style.setProperty('--tz-bottom', `${Math.round(bottom)}px`); } }
   tick() {
     if (!this.alive) return; const t = this.now(); let busy = false;
     for (const j of this.jobs) {
